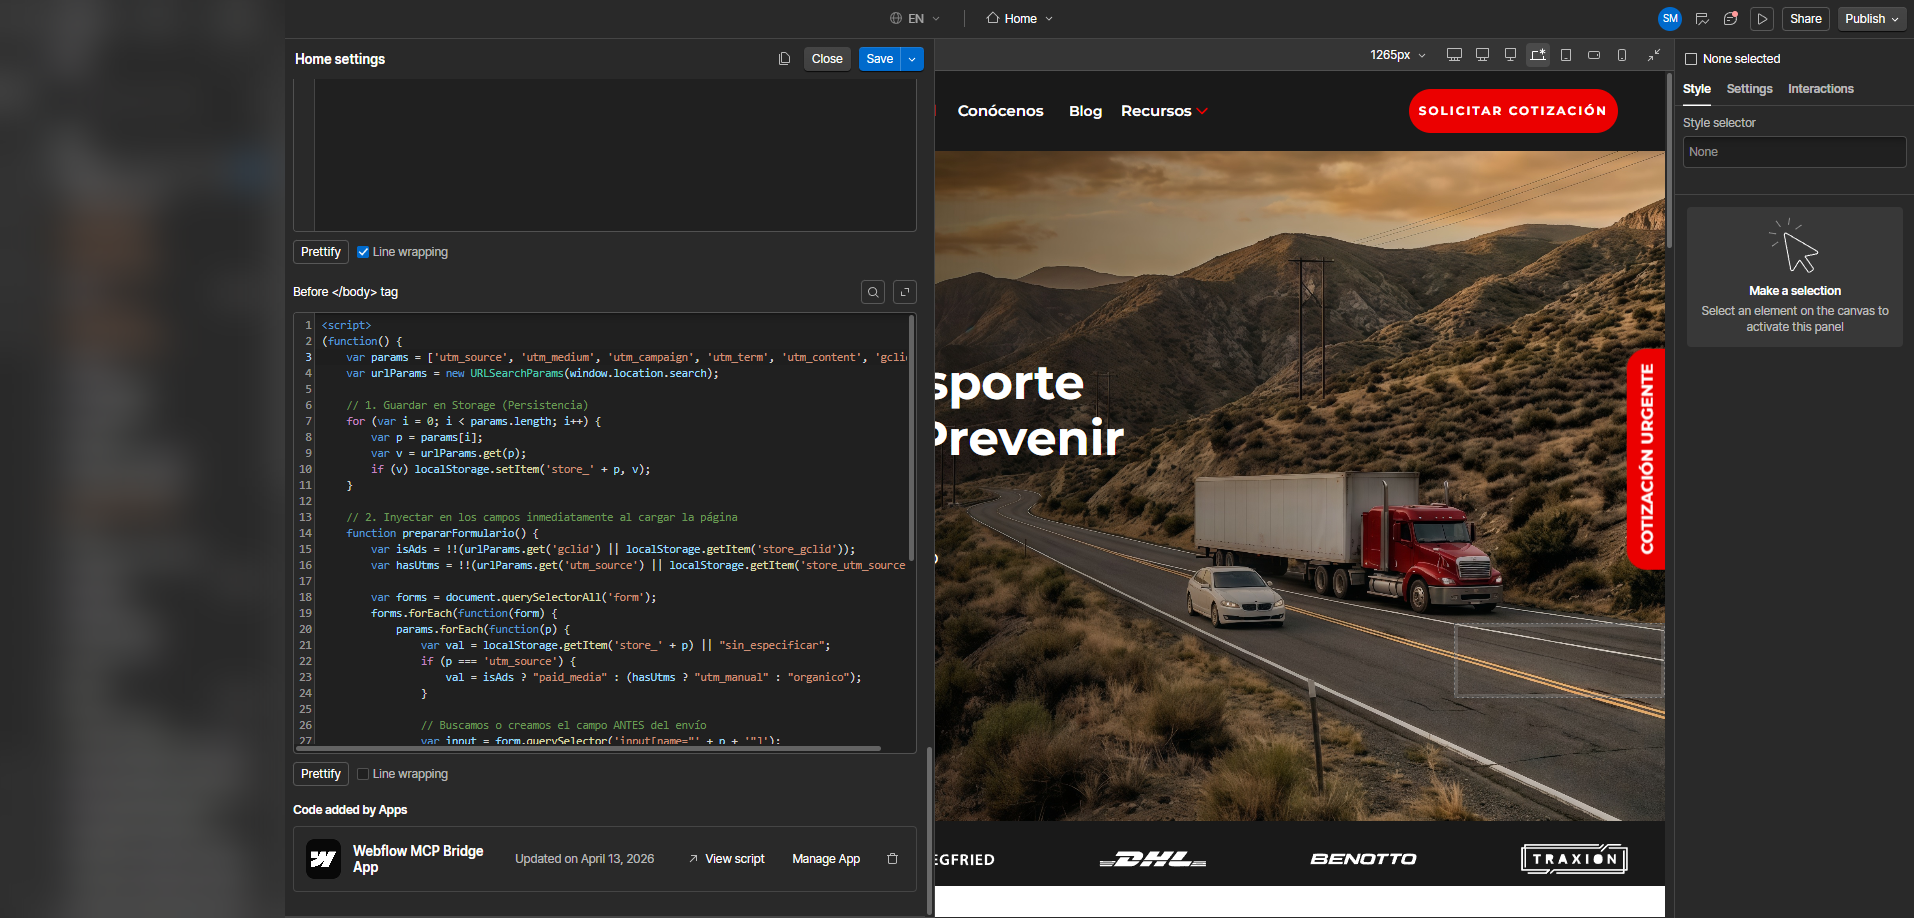
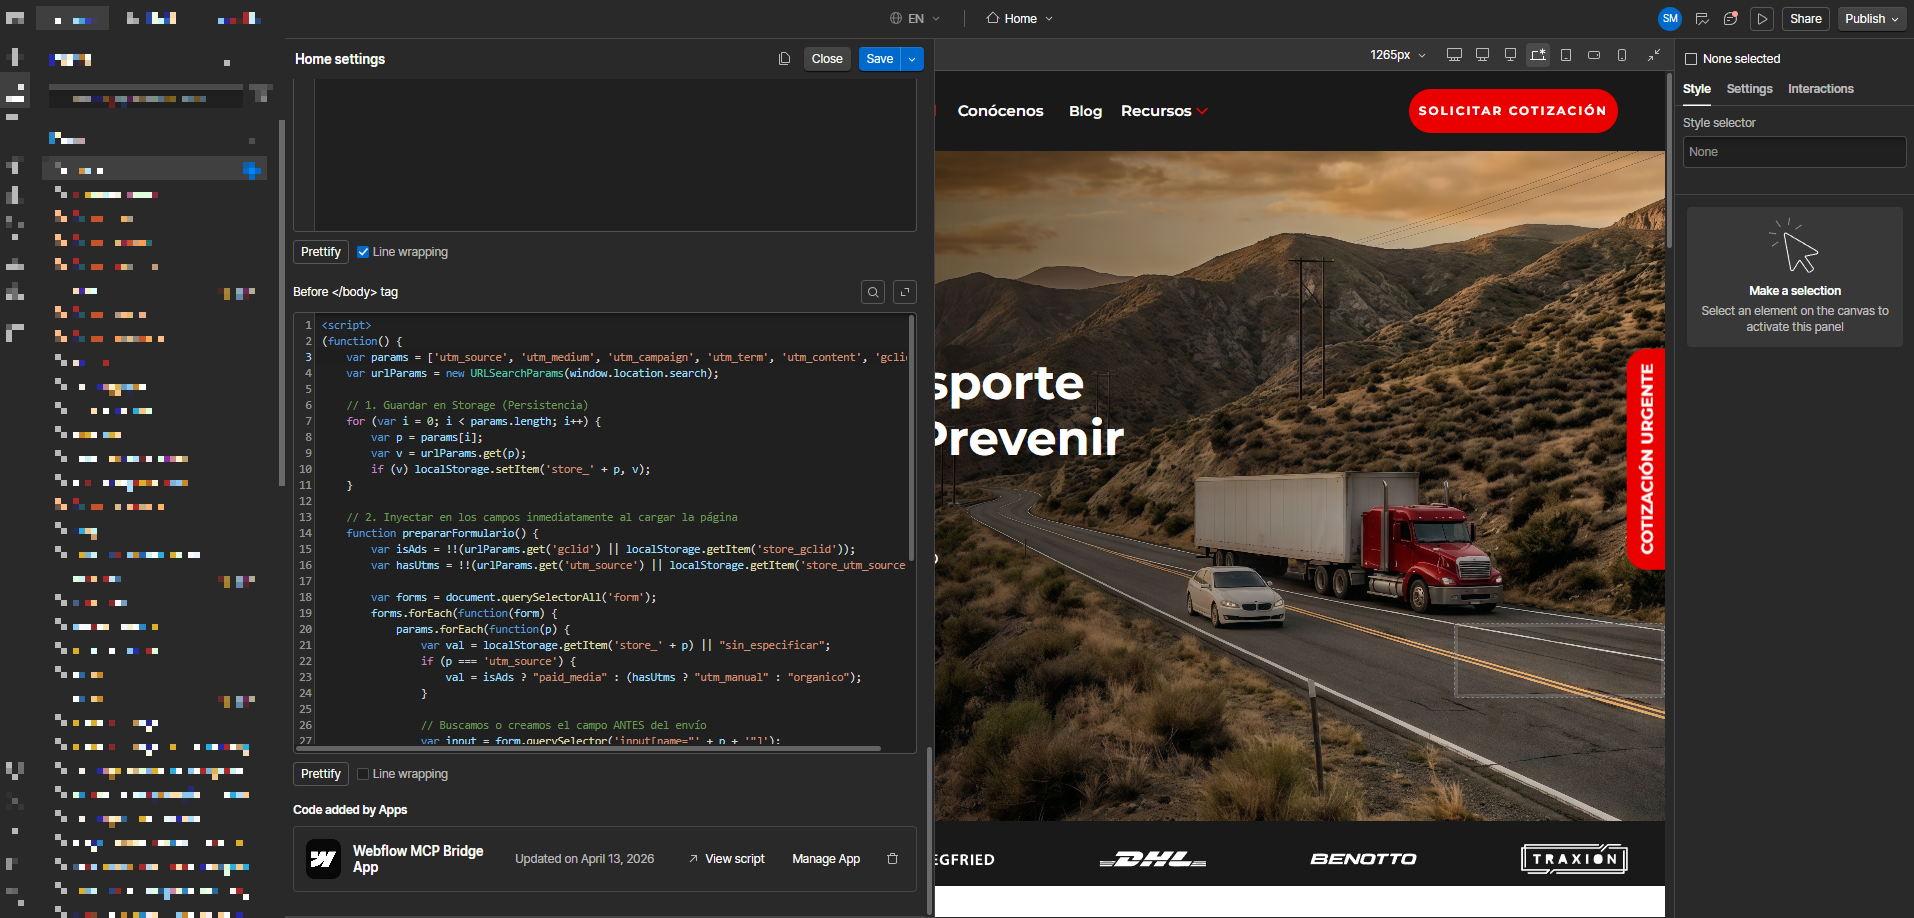
Fix: blur quirúrgico de capturas - solo PII, campos visibles
Re-hace el blur de pipedrive.png, slack.png y webflow.png para cubrir
únicamente los valores sensibles (nombre, email, teléfono, empresa,
GCLID, mensaje, links de deal), dejando visibles etiquetas de campo y
datos de tracking (UTM, motivo de contacto). Quita la captura del
formulario del README.

diff --git a/README.md b/README.md
@@ -40,10 +40,7 @@ El script está en [`snippets/webflow-utm-capture.js`](snippets/webflow-utm-capt
 
 ## Capturas
 
-Flujo completo: el formulario captura los UTMs, el webhook crea el lead en Pipedrive y el equipo recibe la notificación en Slack en tiempo real.
-
-### Formulario (Webflow)
-![Formulario](docs/screenshots/form.png)
+Flujo completo: el script captura los UTMs en Webflow, el webhook crea el lead en Pipedrive y el equipo recibe la notificación en Slack en tiempo real.
 
 ### Script de captura de UTMs instalado en Webflow
 ![Custom code en Webflow](docs/screenshots/webflow.png)